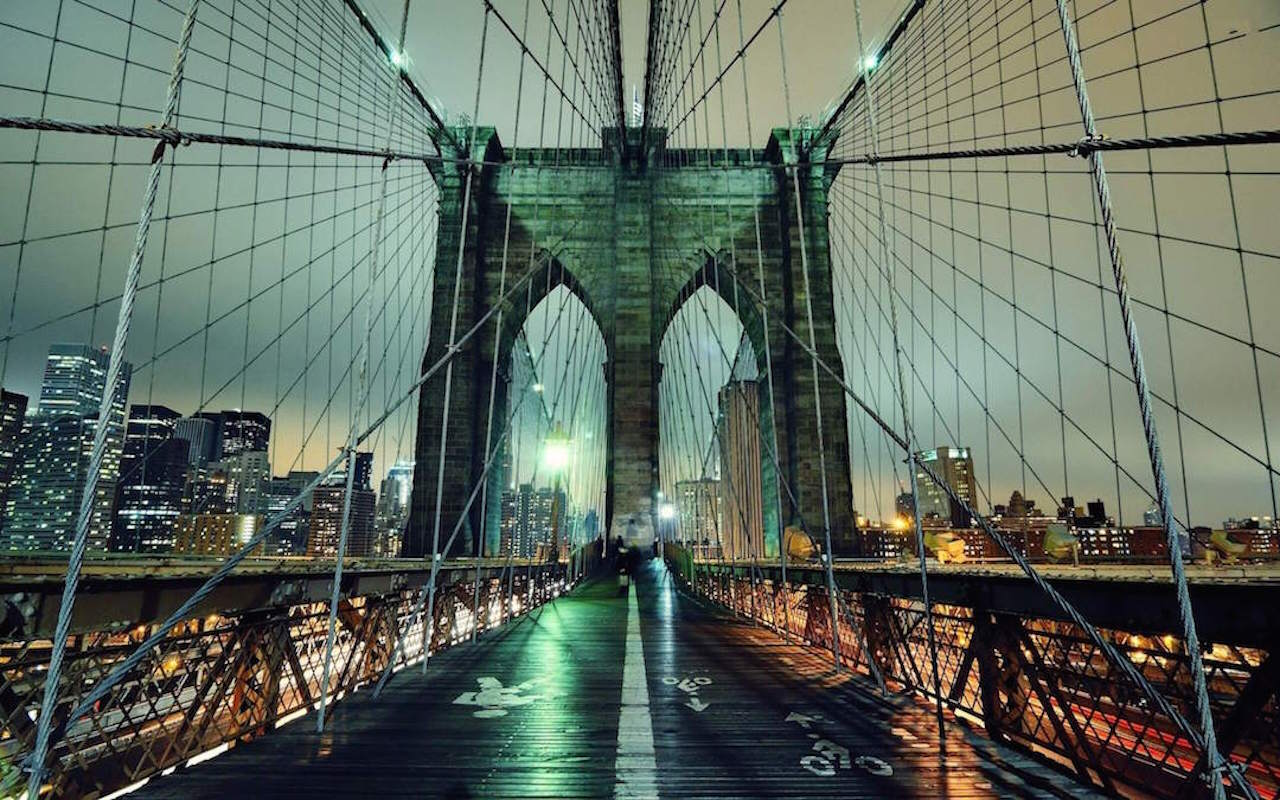
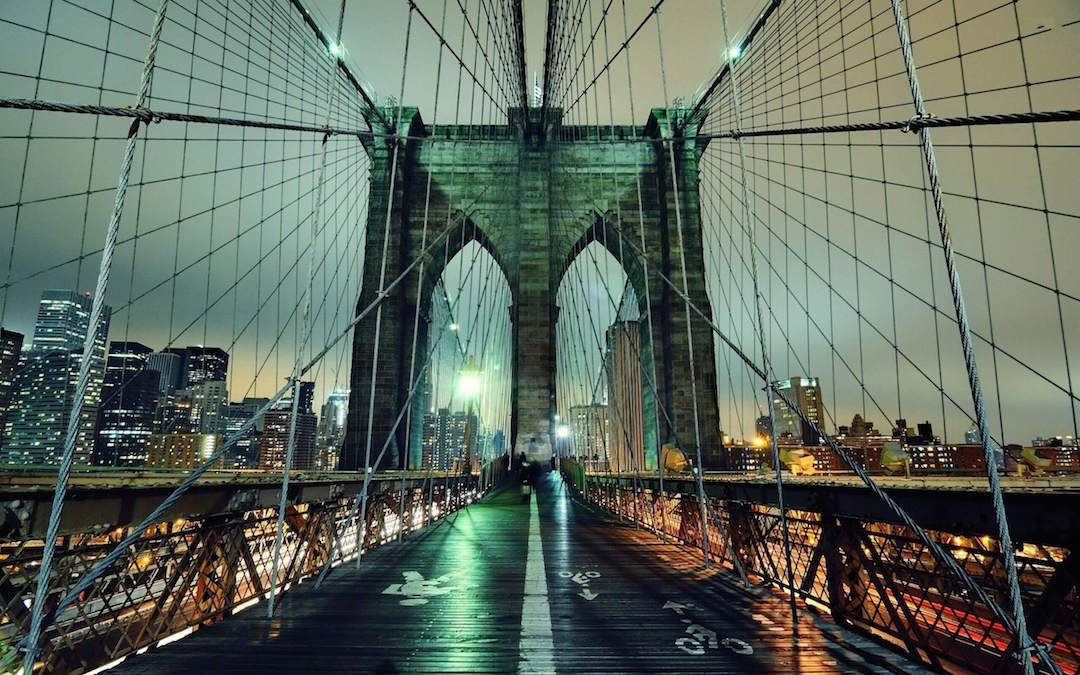
added progressive jpeg images

diff --git a/index.js b/index.js
@@ -1,6 +1,21 @@
 $(document).ready(function () {
     var $window = $(window);
     
+    var $section1 = $("#section-1");
+    var $section2 = $("#section-2");
+    var $section3 = $("#section-3");
+
+    // Hide the page initially
+    $section1.hide();
+    $section2.hide();
+    $section3.hide();
+
+    $window.on("load", function() {
+        $section1.show();
+        $section2.show();
+        $section3.show();    
+    });
+    
     var $contactMe = $("#contact-me");
     $("#contact-me").hover(
         function() {
@@ -13,9 +28,6 @@ $(document).ready(function () {
     $(window).scroll(function() {
         /* TODO: Refactor using helper functions */
         /* Navbar header animation as user scrolls to certain sections */
-        var $section1 = $("#section-1");
-        var $section2 = $("#section-2");
-        var $section3 = $("#section-3");
         if ($window.scrollTop() >= ($section1.offset().top-400)
            && $window.scrollTop() < ($section2.offset().top-200)) {
             $("#about-item").css({

diff --git a/index.css b/index.css
@@ -518,8 +518,7 @@ a.app_redirect_button.django:active {
     background-image: url("images/new-york-city-grayscale.png");
 }
 .parallax-fixed-bg.fixed-bg-2 {
-/*    background-image: url("images/brooklyn-bridge-at-night.jpeg");*/
-    background-image: url("images/test1.jpeg");
+    background-image: url("images/brooklyn-bridge-at-night-progressive.jpeg");
     filter: sepia(0.65);
     -webkit-filter: sepia(0.65);
     -moz-filter: sepia(0.65);
@@ -527,7 +526,7 @@ a.app_redirect_button.django:active {
     -ms-filter: sepia(0.65);
 }
 .parallax-fixed-bg.fixed-bg-3 {
-    background-image: url("images/new-york-city-night.jpeg");
+    background-image: url("images/new-york-city-night-progressive.jpeg");
     filter: sepia(0.65);
     -webkit-filter: sepia(0.65);
     -moz-filter: sepia(0.65);
